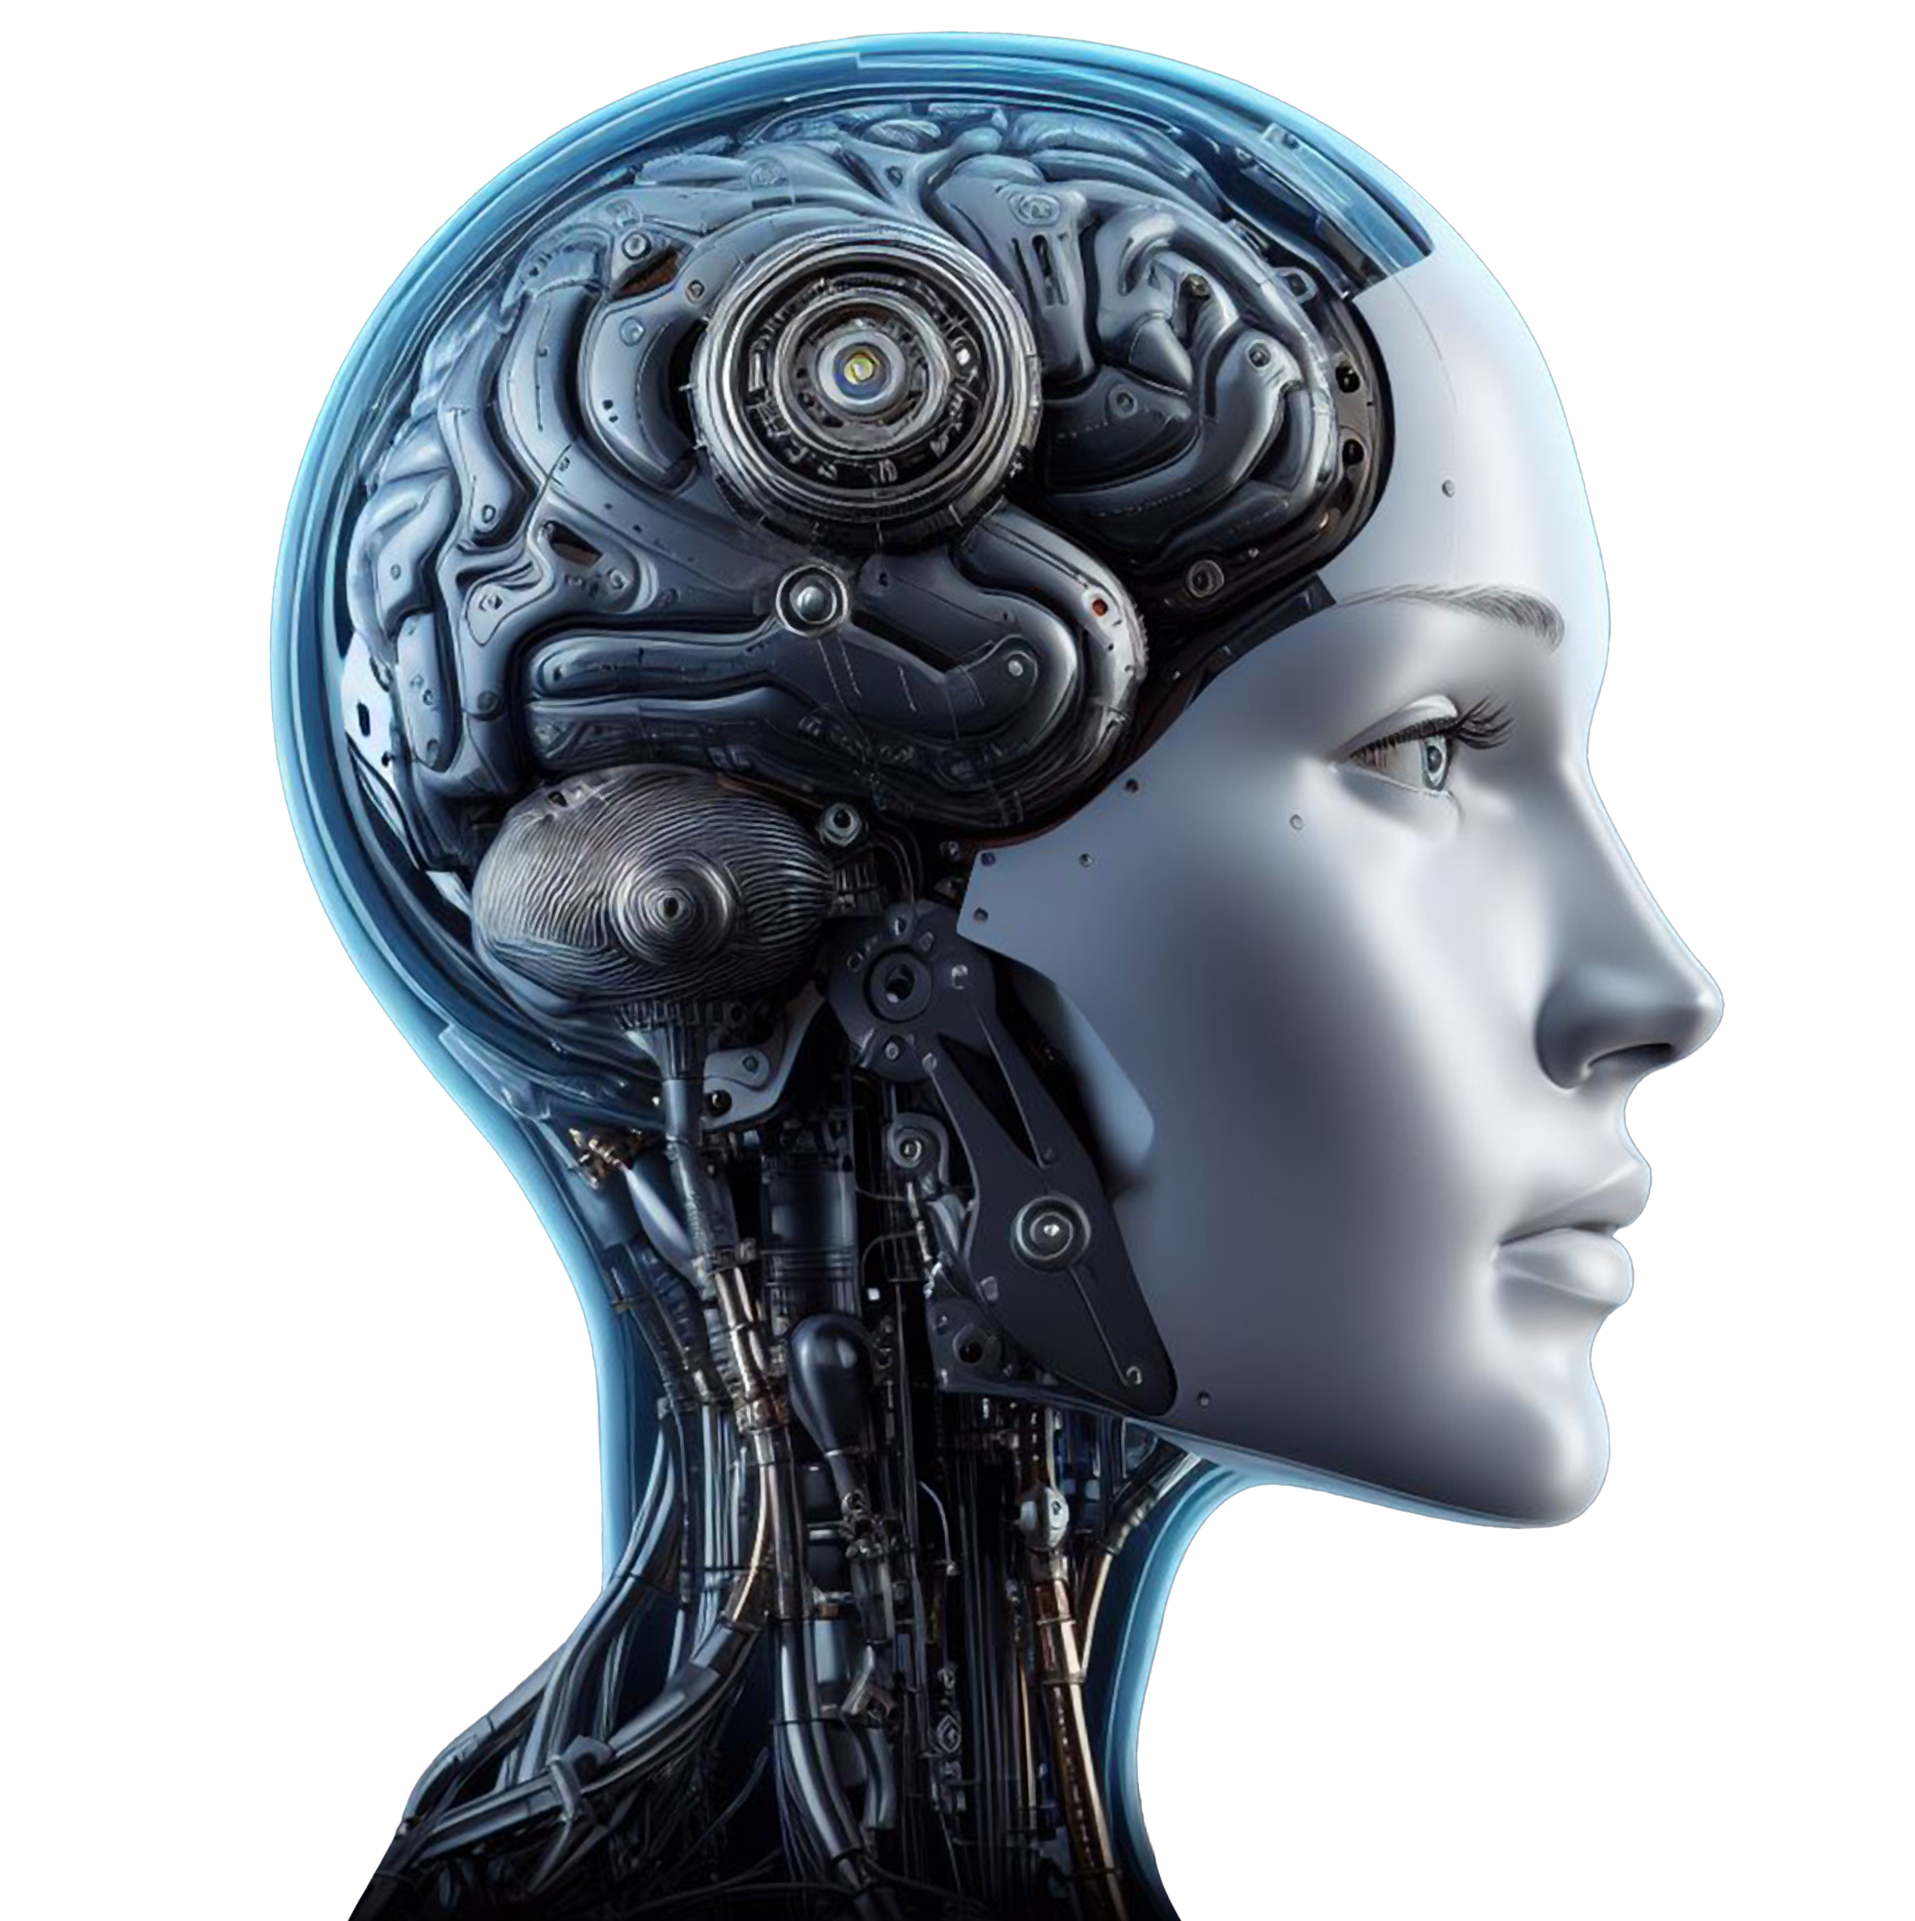
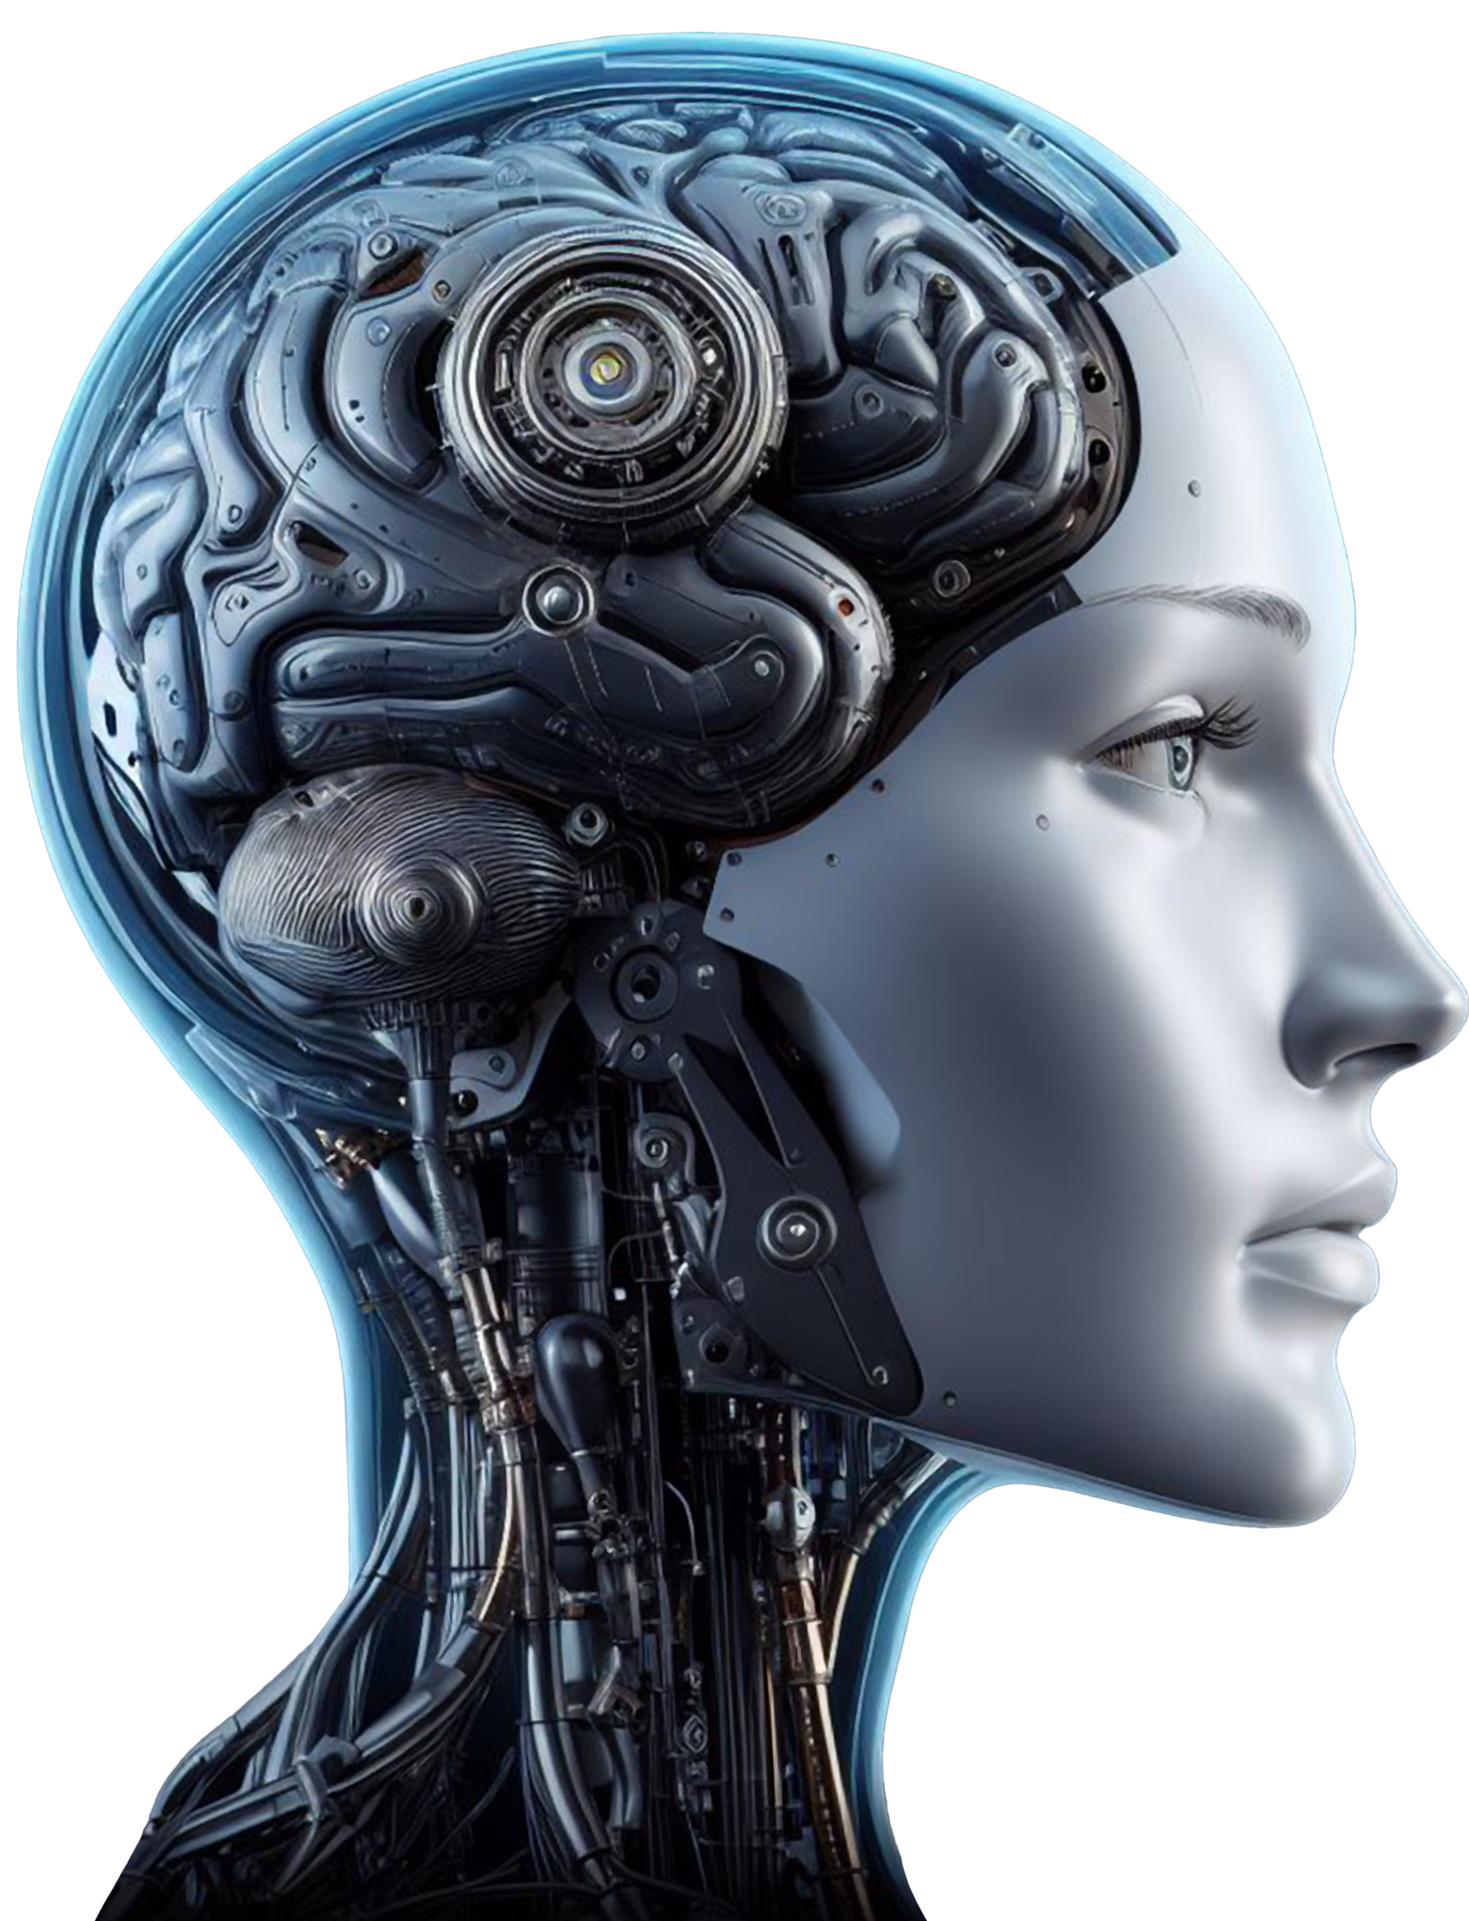
here

diff --git a/styling.css b/styling.css
@@ -1,5 +1,6 @@
 body{
     background-color: #4A2040;
+    font-family: sans-serif;
 }
 
 #frontpage{
@@ -7,7 +8,7 @@ body{
     color: #Ffffff;
     font-size: 150px;
     position: absolute;
-    transform: translateY(30%);
+    transform: translateY(-20%);
     right: 780px;
     
 }
@@ -19,17 +20,24 @@ body{
     font-variant: small-caps;
     font-style: italic;
     position: absolute;
-    transform: translateY(1050%);
-    right: 65%;
+    transform: translateY(700%);
+    right: 65.5%;
   
 
 }
 
-
-.members {
-    display: flex;
-    flex-wrap: wrap;
-    justify-content: center;
-    flex-direction: row;
-    margin-top: 20px;
+img{
+    
+    transform: translateX(-500px);
+    transform: translateY(260px);
+    
 }
+h3{
+    color: white;
+    font-size: 200px;
+    transform: translateY(200%);
+    transform: translateX(60%);
+    bottom: 600%;
+}
+
+

diff --git a/index.html b/index.html
@@ -15,10 +15,9 @@ web page and include your name as author.
     <div class = "container work">
         <p class = "slogan">connecting everyone around the web ™    </p>
     </div>
-    <img src="/images" alt="">
+    <img src="assets/images/robot.png" alt="" height = "700px">
     
-
-    
+    <h3 id = "firstbox">☐</h3>    
    
    
 </body>
